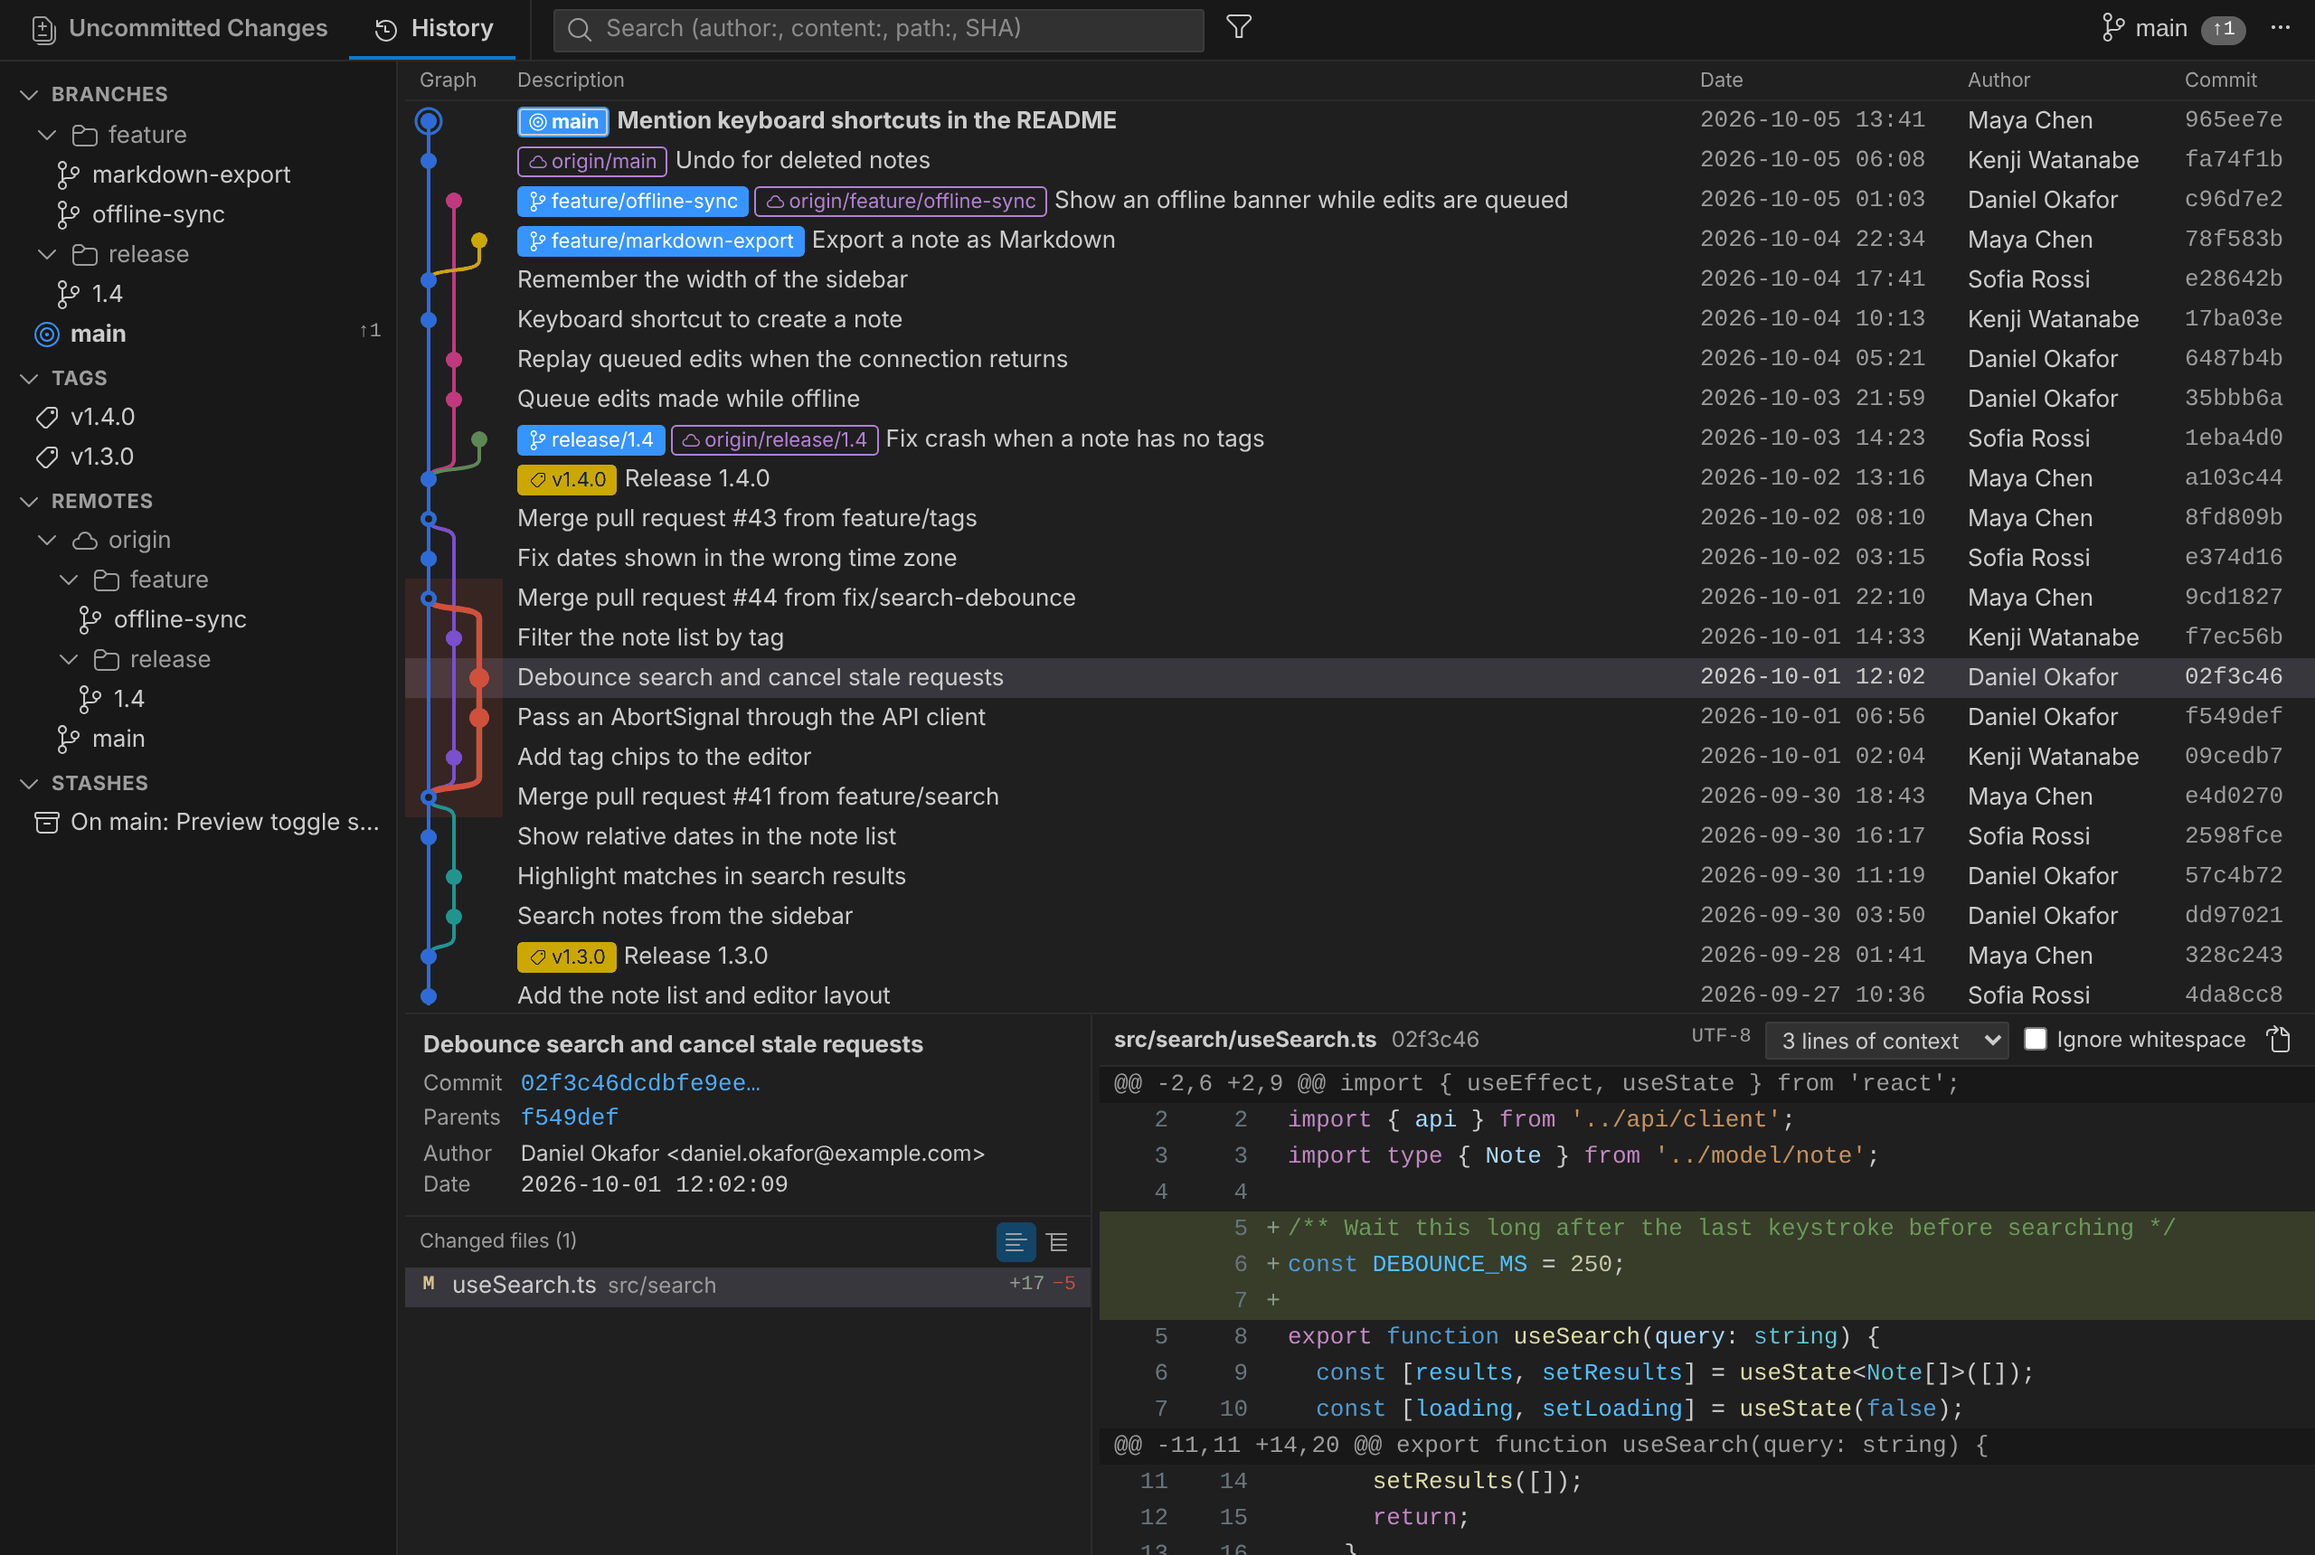
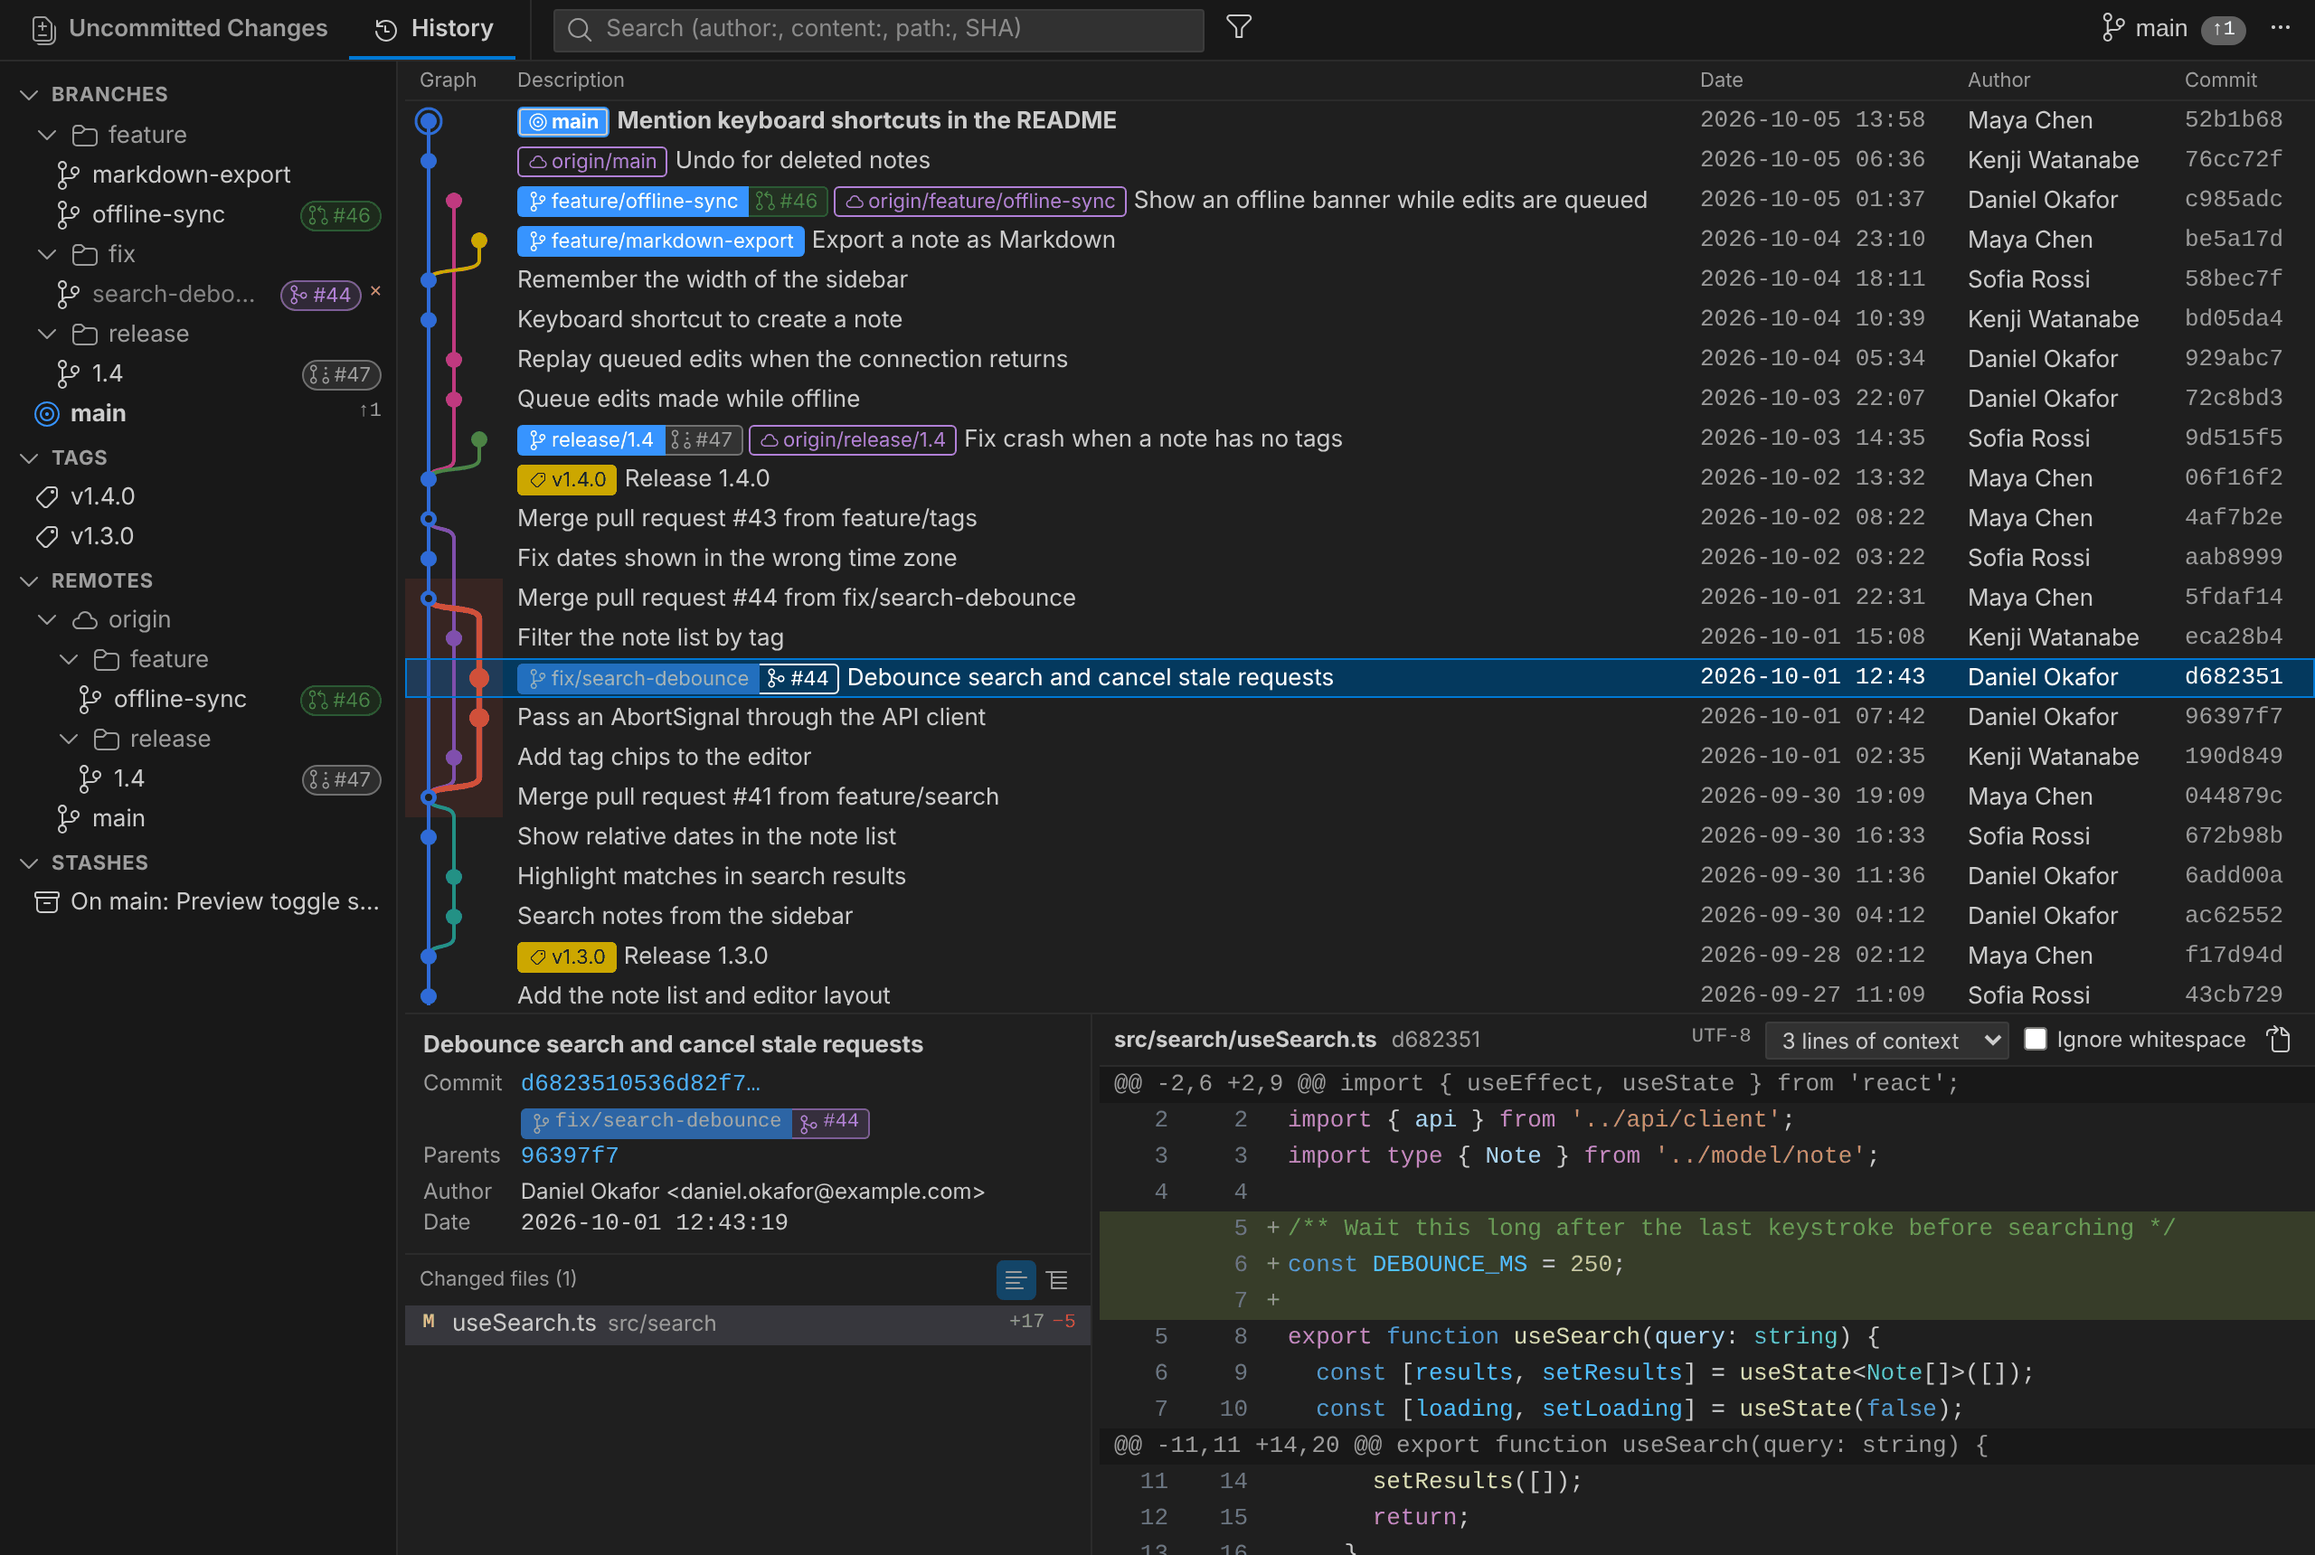
Show pull request badges in the README screenshot
The development server takes --pull-requests <file>: GitHub is answered
with the pull requests in the file (the response of GET
/repos/{owner}/{repo}/pulls) instead of being asked, so badges can be
shown offline. The real matching of branches to pull requests still runs.

The screenshot repository now has a GitHub origin (pointed by insteadOf
to the local bare repository), a merged branch kept locally after its
remote branch was deleted, and a pull request list next to it: an open,
a draft and a merged pull request show up in the retaken screenshot.

Claude-Session: https://claude.ai/code/session_012qWhXgy7zvirnWNtxYTt9n

diff --git a/src/dev/devServer.ts b/src/dev/devServer.ts
@@ -1,11 +1,13 @@
 // Development server: serves the webview bundle to a browser and runs RpcRouter against a real repository.
 // For trying the UI and the git layer together without starting VS Code (not included in the VSIX).
-//   node dist/dev/devServer.js --repo <path> [--port 5178] [--vscode-extensions <dir>]
+//   node dist/dev/devServer.js --repo <path> [--port 5178] [--vscode-extensions <dir>] [--pull-requests <file>]
 // Syntax highlighting grammars and themes are read from the built-in extensions of an installed VS Code
 // (--vscode-extensions, otherwise looked up from TWIGLINE_VSCODE_PATH and the usual install locations).
 // Instead of postMessage, the webview -> host direction uses POST /rpc and host -> webview uses Server-Sent Events (/events).
 // Pull requests are read with GITHUB_TOKEN (or GH_TOKEN) for GitHub, or BITBUCKET_EMAIL and BITBUCKET_API_TOKEN for Bitbucket Cloud,
 // if set (public repositories only otherwise).
+// --pull-requests answers GitHub with the pull requests in a file instead (the response of REST GET /repos/{owner}/{repo}/pulls,
+// for any GitHub repository), so pull request badges can be shown without asking GitHub (screenshots, offline work).
 
 import { watch as fsWatch, readFileSync, existsSync, readdirSync } from 'node:fs';
 import { rm } from 'node:fs/promises';
@@ -29,6 +31,7 @@ const port = Number(opt('port', '5178'));
 const extRoot = path.resolve(__dirname, '..', '..');
 const webviewDir = path.join(extRoot, 'dist', 'webview');
 const syntaxDir = path.join(extRoot, 'dist', 'syntax');
+const pullRequestFile = opt('pull-requests', '');
 
 const config: TwiglineConfig = {
   historyOrder: 'date',
@@ -145,6 +148,8 @@ const env: HostEnv = {
   helperExecPath: process.execPath,
   // Credentials for reading PRs come from environment variables (github.com and bitbucket.org only)
   pullRequestCredential: async (provider, host) => {
+    // The pull requests from a file are read like a public repository's (REST)
+    if (pullRequestFile) return undefined;
     const e = process.env;
     if (provider === 'github' && host === 'github.com' && (e.GITHUB_TOKEN || e.GH_TOKEN)) return { token: (e.GITHUB_TOKEN || e.GH_TOKEN)! };
     if (provider === 'bitbucket' && e.BITBUCKET_EMAIL && e.BITBUCKET_API_TOKEN) return { username: e.BITBUCKET_EMAIL, password: e.BITBUCKET_API_TOKEN };
@@ -184,6 +189,16 @@ const MIME: Record<string, string> = { '.js': 'text/javascript', '.css': 'text/c
 async function main(): Promise<void> {
   const git = await RepoModel.detectGit(process.env.TWIGLINE_GIT ?? 'git');
   model = await RepoModel.open(repoPath, git, env, new GitHelpers(extRoot, process.execPath));
+  if (pullRequestFile) {
+    const file = path.resolve(pullRequestFile);
+    console.log(`[pr] GitHub pull requests are read from ${file}`);
+    model.pullRequests.fetchImpl = async (url) => {
+      const github = /^https:\/\/[^/]+\/(api\/v3\/)?repos\/[^/]+\/[^/]+\/pulls\?/.test(url);
+      // Read on every request, so editing the file and refreshing shows the change
+      const body: unknown = github ? JSON.parse(readFileSync(file, 'utf8')) : { message: 'Not Found' };
+      return { ok: github, status: github ? 200 : 404, headers: { get: () => null }, json: async () => body };
+    };
+  }
   model.startWatching(true);
   let currentLang = 'ja';
   const router = new RpcRouter(model, broadcast, {

diff --git a/CONTRIBUTING.md b/CONTRIBUTING.md
@@ -40,16 +40,19 @@ node dist/dev/devServer.js --repo ../twigline-demo --port 5178
 Syntax highlighting grammars and themes are read from the built-in extensions of an installed VS Code
 (`--vscode-extensions <dir>`; by default it looks at `TWIGLINE_VSCODE_PATH` and the usual install locations, and highlighting is off if none is found).
 Pull requests are read with the environment variable `GITHUB_TOKEN` (or `GH_TOKEN`) for GitHub, or `BITBUCKET_EMAIL` and `BITBUCKET_API_TOKEN` for Bitbucket (public repositories only if they are not set).
+`--pull-requests <file>` answers GitHub with the pull requests in a file instead (the response of `GET /repos/{owner}/{repo}/pulls`),
+so pull request badges can be shown without asking GitHub.
 
 ### Screenshot
 
 The README shows `docs/images/history.png`, the History tab of the repository made by `scripts/make-screenshot-repo.mjs`.
-To take it again after the UI changes:
+Its `origin` is a GitHub URL that `insteadOf` points to a local bare repository, and its pull requests (made up, like the rest of it)
+are written next to it for `--pull-requests`. To take it again after the UI changes:
 
 ```bash
 node scripts/make-screenshot-repo.mjs ../twigline-screenshot
 npm run build
-node dist/dev/devServer.js --repo ../twigline-screenshot --port 5178
+node dist/dev/devServer.js --repo ../twigline-screenshot --pull-requests ../twigline-screenshot-pulls.json --port 5178
 # http://localhost:5178/?lang=en&theme=dark
 ```
 

diff --git a/README.ja.md b/README.ja.md
@@ -4,7 +4,7 @@
 
 VS Code の中で使う Git クライアントです。ブランチの一覧、コミットグラフ、行単位でステージできるファイルステータスと差分を 1 つのパネルで扱います。
 
-![「履歴」タブ: ブランチ ・ タグ ・ リモートブランチ付きのコミットグラフと、選んだコミットの詳細と構文ハイライト付きの差分](docs/images/history.png)
+![「履歴」タブ: ブランチ ・ タグ ・ リモートブランチ ・ プルリクエスト付きのコミットグラフと、選んだコミットの詳細と構文ハイライト付きの差分](docs/images/history.png)
 
 - 1 つのリポジトリを 1 つのエディタタブに開き、「未コミットの変更 ｜ 履歴」のタブ、履歴グラフとブランチなどの一覧、詳細 ／ 差分をまとめて表示
 - 操作は働く範囲ごとに置いています: 現在のブランチへのプル ・ プッシュ ・ マージ ・ リベースはタブの行のブランチ名（未送信 ・ 未取得の件数を押してもプッシュ ・ プル）、スタッシュ ・ 破棄は「未コミットの変更」タブの中、フェッチ ・ まとめてプッシュ ・ ブランチ ・ タグ ・ 設定はタブの行の右端の「…」

diff --git a/README.md b/README.md
@@ -4,7 +4,7 @@ A Git client inside VS Code: branches, the commit graph, file status with line-l
 
 [日本語](./README.ja.md)
 
-![The History tab: the commit graph with branches, tags and remote branches, and the selected commit's details and syntax-highlighted diff](docs/images/history.png)
+![The History tab: the commit graph with branches, tags, remote branches and pull requests, and the selected commit's details and syntax-highlighted diff](docs/images/history.png)
 
 - Opens each repository in its own editor tab with "Uncommitted Changes | History" tabs, the history graph with branch lists, and details / diffs side by side
 - Actions sit where they apply: pull, push, merge and rebase for the current branch on the branch name in the tab row (clicking the ahead / behind counts also pushes / pulls); stash and discard inside the "Uncommitted Changes" tab; fetch, push branches, branch, tag and settings under "…" at the right end of the tab row
